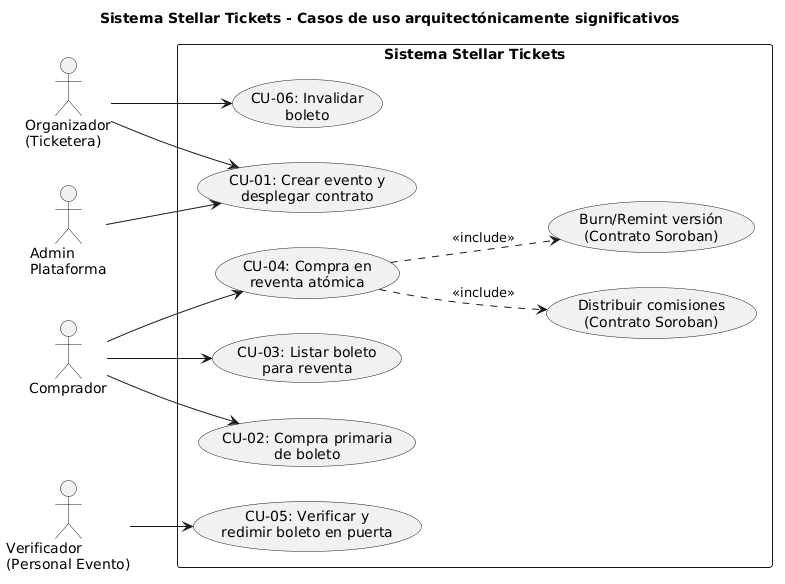
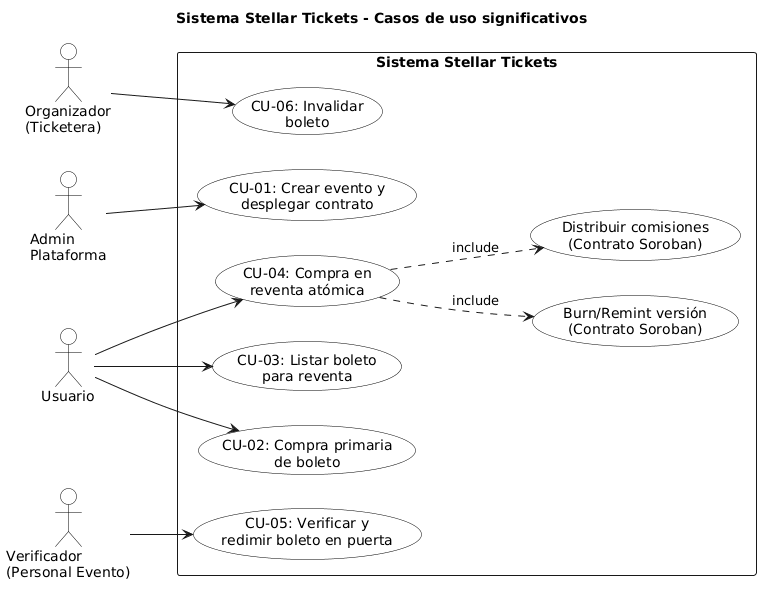
docs(SAD): v0.6 — referencias al final, actores y diagrama de casos de uso actualizados
- Referencias movidas de sección 1.4 al final del documento como sección independiente
- Diagrama de casos de uso: solo Admin Plataforma crea eventos y despliega contratos
- Actor renombrado de Comprador/Vendedor a Usuario en todos los casos de uso

Changed region(s): [[0.0312, 0.0, 0.9987, 0.9863], [0.0312, 0.3082, 0.156, 0.4932], [0.0, 0.8322, 0.1873, 0.9863]]

diff --git a/especificación del diseño/main.tex b/especificación del diseño/main.tex
@@ -75,7 +75,7 @@
   \vspace{0.3cm}
   {\Large (\shortname)\par}
   \vspace{1.2cm}
-  {\large Versión 0.4 — \docdate\par}
+  {\large Versión 0.6 — \docdate\par}
   \vspace{0.8cm}
   \includegraphics[width=4cm]{pontificia-universidad-javeriana-seeklogo.png}\par
   \vspace{0.4cm}
@@ -117,6 +117,7 @@
   0.3 & 15/03/2026 & Desarrollo de las secciones 4 (Vista de casos de uso), 5 (Vista lógica) y 6 (Vista de procesos). & \team\\
   0.4 & 24/03/2026 & Actualización integral: alineación con la implementación real de los contratos (nombres en español, versionado burn/remint, sistema de verificadores, invalidación on-chain), corrección de la arquitectura Frontend$\rightarrow$Backend$\rightarrow$Blockchain, eliminación de App de Escaneo y modo offline no implementados, actualización de diagramas C4. & \team\\
   0.5 & 25/04/2026 & Sincronización con estado final del prototipo: corrección de stack backend (Express en lugar de NestJS), documentación de integración Soroban completa (venta primaria, reventa atómica, asegurar on-chain, mercado secundario P2P, cancelación de listado), incorporación de Freighter Wallet como componente implementado, actualización de modelo de datos off-chain con campos Web3, adición de rol STAFF y panel de administración (Phase 4), corrección de flujo de verificación (escáner QR implementado, sin modo offline), actualización de rutas frontend y variables de entorno. & \team\\
+  0.6 & 11/05/2026 & Referencias bibliográficas movidas de la sección 1.4 al final del documento como sección independiente. Diagrama de casos de uso actualizado: solo Admin Plataforma puede crear eventos y desplegar contratos inteligentes. Actor renombrado de "Comprador"/"Vendedor" a "Usuario" en todos los casos de uso. & \team\\
 \end{longtable}
 
 \newpage
@@ -182,20 +183,6 @@ El SAD abarca la arquitectura del prototipo académico del sistema de reventa B2
   SRS & \textit{Software Requirements Specification}. Documento de requerimientos del proyecto.\\
   SPMP & \textit{Software Project Management Plan}. Plan de gestión del proyecto.\\
 \end{longtable}
-
-\subsection{Referencias}
-\label{subsec:referencias}
-
-\begin{enumerate}[leftmargin=*,label={[\arabic*]}]
-  \item IEEE Std 1471-2000: \textit{IEEE Recommended Practice for Architectural Description of Software-Intensive Systems}.
-  \item ISO/IEC/IEEE 42010:2011: \textit{Systems and software engineering — Architecture description}.
-  \item Brown, S. (2018). \textit{The C4 Model for Visualising Software Architecture}. \url{https://c4model.com/}.
-  \item Bass, L., Clements, P., \& Kazman, R. (2012). \textit{Software Architecture in Practice}, 3rd Edition. Addison-Wesley.
-  \item SRS del sistema Tickets-NFT B2B (v0.1).
-  \item SPMP del sistema Tickets-NFT B2B (v1.1).
-  \item Stellar Development Foundation: \textit{Stellar Documentation}, \url{https://developers.stellar.org/}.
-  \item Soroban Documentation: \textit{Smart Contracts on Stellar}, \url{https://soroban.stellar.org/}.
-\end{enumerate}
 
 \subsection{Visión general del documento}
 \label{subsec:vision-general}
@@ -410,14 +397,14 @@ A continuación se describe cada caso de uso, destacando su relevancia arquitect
   \centering
   \begin{tabularx}{\textwidth}{@{}p{3.5cm} X@{}}
     \toprule
-    \textbf{Actores} & Organizador (Ticketera), Admin Plataforma\\
+    \textbf{Actores} & Admin Plataforma\\
     \midrule
-    \textbf{Descripción} & El organizador configura un nuevo evento (nombre, fecha, wallets de comisión, políticas de reventa). La plataforma invoca el Factory para desplegar un contrato Soroban específico para ese evento en la testnet.\\
+    \textbf{Descripción} & El administrador de la plataforma configura un nuevo evento (nombre, fecha, wallets de comisión, políticas de reventa). La plataforma invoca el Factory para desplegar un contrato Soroban específico para ese evento en la testnet.\\
     \midrule
-    \textbf{Precondiciones} & El organizador está autenticado y tiene permisos de creación de eventos.\\
+    \textbf{Precondiciones} & El administrador está autenticado y tiene permisos de creación de eventos.\\
     \midrule
     \textbf{Flujo principal} &
-      1. El organizador ingresa los datos del evento y configura fees.\newline
+      1. El administrador ingresa los datos del evento y configura fees.\newline
       2. El backend valida los parámetros y registra el evento en PostgreSQL.\newline
       3. El backend invoca el contrato Factory en Stellar.\newline
       4. El Factory despliega un nuevo contrato de evento con los parámetros configurados.\newline
@@ -439,20 +426,20 @@ A continuación se describe cada caso de uso, destacando su relevancia arquitect
   \centering
   \begin{tabularx}{\textwidth}{@{}p{3.5cm} X@{}}
     \toprule
-    \textbf{Actores} & Comprador\\
+    \textbf{Actores} & Usuario\\
     \midrule
-    \textbf{Descripción} & El comprador adquiere un ticket emitido por el organizador. El 100\% del pago se transfiere al organizador.\\
+    \textbf{Descripción} & El usuario adquiere un ticket emitido por el organizador. El 100\% del pago se transfiere al organizador.\\
     \midrule
-    \textbf{Precondiciones} & El evento existe, tiene tickets disponibles y el comprador tiene fondos suficientes en su wallet.\\
+    \textbf{Precondiciones} & El evento existe, tiene tickets disponibles y el usuario tiene fondos suficientes en su wallet.\\
     \midrule
     \textbf{Flujo principal} &
-      1. El comprador selecciona un boleto disponible en la aplicación web TuTicket.\newline
+      1. El usuario selecciona un boleto disponible en la aplicación web TuTicket.\newline
       2. El frontend envía la solicitud de compra al Backend API.\newline
       3. El backend orquesta la invocación de \texttt{comprar\_boleto} en el contrato de evento.\newline
-      4. El contrato transfiere el 100\% del pago al organizador mediante \texttt{ClienteToken} y asigna el boleto al comprador, marcando \texttt{es\_reventa = true}.\newline
+      4. El contrato transfiere el 100\% del pago al organizador mediante \texttt{ClienteToken} y asigna el boleto al usuario, marcando \texttt{es\_reventa = true}.\newline
       5. El backend registra la operación en PostgreSQL.\\
     \midrule
-    \textbf{Postcondiciones} & El comprador es el nuevo propietario del boleto. El pago fue transferido al organizador. Futuras ventas de este boleto serán tratadas como reventa (con comisiones y burn/remint).\\
+    \textbf{Postcondiciones} & El usuario es el nuevo propietario del boleto. El pago fue transferido al organizador. Futuras ventas de este boleto serán tratadas como reventa (con comisiones y burn/remint).\\
     \midrule
     \textbf{Relevancia arquitectónica} & Ejerce la orquestación Backend$\rightarrow$Soroban, la escritura on-chain con registro off-chain posterior, y la transición \texttt{es\_reventa = false $\rightarrow$ true} que determina el comportamiento de todas las transacciones futuras sobre ese boleto.\\
     \bottomrule
@@ -468,14 +455,14 @@ A continuación se describe cada caso de uso, destacando su relevancia arquitect
   \centering
   \begin{tabularx}{\textwidth}{@{}p{3.5cm} X@{}}
     \toprule
-    \textbf{Actores} & Vendedor\\
+    \textbf{Actores} & Usuario\\
     \midrule
     \textbf{Descripción} & El propietario de un ticket lo publica en el marketplace para reventa, estableciendo un precio.\\
     \midrule
-    \textbf{Precondiciones} & El vendedor es propietario del ticket, el ticket está vigente (no consumido ni invalidado) y el evento permite reventa.\\
+    \textbf{Precondiciones} & El usuario es propietario del ticket, el ticket está vigente (no consumido ni invalidado) y el evento permite reventa.\\
     \midrule
     \textbf{Flujo principal} &
-      1. El vendedor selecciona un boleto de su inventario y fija precio de reventa.\newline
+      1. El usuario selecciona un boleto de su inventario y fija precio de reventa.\newline
       2. El frontend envía la solicitud al Backend API.\newline
       3. El backend invoca \texttt{listar\_boleto} en el contrato de evento, que marca \texttt{en\_venta = true} y actualiza el precio.\newline
       4. El marketplace muestra el boleto disponible para compra.\\
@@ -496,27 +483,27 @@ A continuación se describe cada caso de uso, destacando su relevancia arquitect
   \centering
   \begin{tabularx}{\textwidth}{@{}p{3.5cm} X@{}}
     \toprule
-    \textbf{Actores} & Comprador\\
+    \textbf{Actores} & Usuario\\
     \midrule
-    \textbf{Descripción} & El comprador adquiere un ticket en el mercado secundario. En una sola transacción atómica se ejecutan: pago al vendedor, comisión al organizador, comisión a la plataforma, burn de la versión anterior y mint de una nueva versión del ticket.\\
+    \textbf{Descripción} & El usuario adquiere un ticket en el mercado secundario. En una sola transacción atómica se ejecutan: pago al vendedor, comisión al organizador, comisión a la plataforma, burn de la versión anterior y mint de una nueva versión del ticket.\\
     \midrule
-    \textbf{Precondiciones} & El ticket está listado para reventa, el comprador tiene fondos suficientes y no es el propietario actual.\\
+    \textbf{Precondiciones} & El ticket está listado para reventa, el usuario tiene fondos suficientes y no es el propietario actual.\\
     \midrule
     \textbf{Flujo principal} &
-      1. El comprador selecciona un boleto en reventa y confirma la compra.\newline
+      1. El usuario selecciona un boleto en reventa y confirma la compra.\newline
       2. El frontend envía la solicitud al Backend API.\newline
       3. El backend invoca \texttt{comprar\_boleto} en el contrato de evento, que ejecuta atómicamente:\newline
       \hspace{1em}a) Transferencia de comisión al organizador (\texttt{ComisionOrganizador\%}).\newline
       \hspace{1em}b) Transferencia de comisión a la plataforma (\texttt{ComisionPlataforma\%}).\newline
       \hspace{1em}c) Transferencia del pago neto al vendedor.\newline
       \hspace{1em}d) Burn: la versión actual se marca como \texttt{invalidado = true}.\newline
-      \hspace{1em}e) Remint: se crea nueva versión (\texttt{version + 1}) asignada al comprador.\newline
+      \hspace{1em}e) Remint: se crea nueva versión (\texttt{version + 1}) asignada al usuario.\newline
       4. El contrato emite evento \texttt{BoletoRevendido} on-chain indexado por \texttt{ticket\_root\_id}.\newline
       5. El backend actualiza PostgreSQL.\\
     \midrule
     \textbf{Flujo alternativo} & Si cualquier paso falla, toda la transacción se revierte. No existe estado intermedio.\\
     \midrule
-    \textbf{Postcondiciones} & El comprador posee la nueva versión del ticket. Los pagos y comisiones fueron distribuidos. La versión anterior está invalidada.\\
+    \textbf{Postcondiciones} & El usuario posee la nueva versión del ticket. Los pagos y comisiones fueron distribuidos. La versión anterior está invalidada.\\
     \midrule
     \textbf{Relevancia arquitectónica} & Es el caso de uso más crítico del sistema. Ejerce la atomicidad transaccional de Soroban, el patrón burn+remint, la distribución de comisiones embebida en el contrato y la trazabilidad por \texttt{ticket\_root\_id}. Valida el driver de atomicidad e inmutabilidad.\\
     \bottomrule
@@ -1421,7 +1408,21 @@ Medida & Pérdida de datos cero para transacciones confirmadas en PostgreSQL. Lo
 \textbf{Consecuencias:} Separación de responsabilidades clara: el propietario posee el boleto, pero no controla su redención. Previene fraudes donde un propietario podría intentar redimir y luego reclamar que no lo hizo. Los verificadores son gestionables (agregar/remover) por el organizador.
 
 %===============================================================
-% Referencias (si se usa bibliografía adicional al final)
+% Referencias
 %===============================================================
+
+\section*{Referencias}
+\label{sec:referencias}
+
+\begin{enumerate}[leftmargin=*,label={[\arabic*]}]
+  \item IEEE Std 1471-2000: \textit{IEEE Recommended Practice for Architectural Description of Software-Intensive Systems}.
+  \item ISO/IEC/IEEE 42010:2011: \textit{Systems and software engineering — Architecture description}.
+  \item Brown, S. (2018). \textit{The C4 Model for Visualising Software Architecture}. \url{https://c4model.com/}.
+  \item Bass, L., Clements, P., \& Kazman, R. (2012). \textit{Software Architecture in Practice}, 3rd Edition. Addison-Wesley.
+  \item SRS del sistema Tickets-NFT B2B (v0.1).
+  \item SPMP del sistema Tickets-NFT B2B (v1.1).
+  \item Stellar Development Foundation: \textit{Stellar Documentation}, \url{https://developers.stellar.org/}.
+  \item Soroban Documentation: \textit{Smart Contracts on Stellar}, \url{https://soroban.stellar.org/}.
+\end{enumerate}
 
 \end{document}